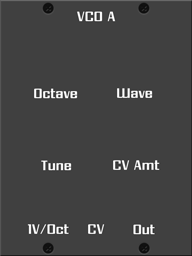
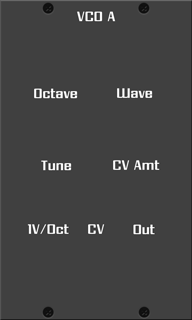
Resized cells

diff --git a/ColaApp/ComponentView.m b/ColaApp/ComponentView.m
@@ -85,14 +85,4 @@
     }
 }
 
--(void)drawRect:(CGRect)rect {
-    [super drawRect:rect];
-    
-    CGContextRef ctx = UIGraphicsGetCurrentContext();
-    
-    CGContextSetStrokeColorWithColor(ctx, [[UIColor colorWithRed:0 green:0 blue:0 alpha:0.5] CGColor]);
-    CGContextSetLineWidth(ctx, 2);
-    CGContextStrokeRect(ctx, rect);
-}
-
 @end

diff --git a/ColaApp/AppDelegate.m b/ColaApp/AppDelegate.m
@@ -47,7 +47,7 @@ NSArray *componentCatalog;
     // Setup metrics
     kBuildViewWidth =       768;
     kBuildViewColumnWidth = 96;
-    kBuildViewRowHeight =   256;
+    kBuildViewRowHeight =   320;
     kToolbarHeight =        64;
     kComponentShelfHeight = 120;
     
